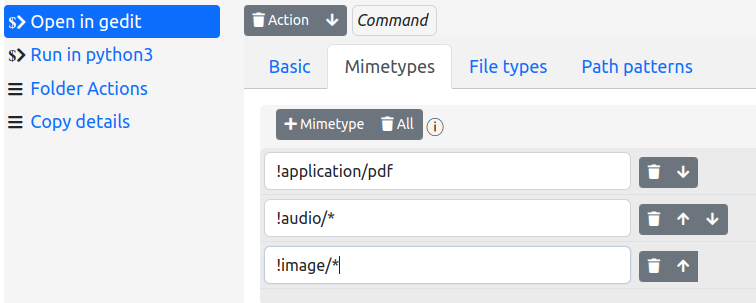
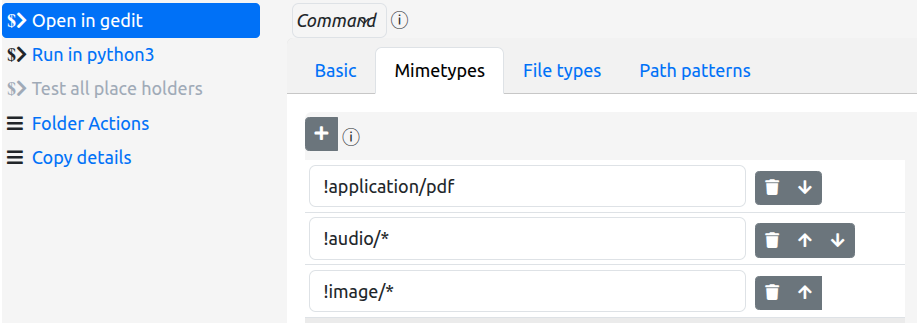
Partial doc updates

diff --git a/configurator/actions-for-nautilus-configurator-help.html b/configurator/actions-for-nautilus-configurator-help.html
@@ -18,10 +18,10 @@
 			confusion) based upon the characteristics of the files and directories that you have
 			selected in the Nautilus window (simply called <em>files</em> from here-on).</p>
 		<p>Within the context of the extension, these menu items are called <em>actions</em>.</p>
-		<p>You can add two types of actions.</p>
+		<p>You can add two types of action:</p>
 		<ul>
 			<li>Commands - a command action allows you to execute an arbitrary command, passing
-				the selected files to the command as arguments.</li>
+				information pertaining to the the selected files to the command as arguments.</li>
 			<li>Menus - a menu action contains other actions, allowing you to structure your
 				configured commands into logical groups in any way you see fit.</li>
 		</ul>
@@ -86,7 +86,7 @@
 				<ul>
 					<li>see the actions already added to the main context menu, </li>
 					<li>easily identify any actions that have been disabled, </li>
-					<li>add new actions to that menu</li>
+					<li>add, copy, paste, reorder, and delete actions within that menu</li>
 					<li>select an existing action in order to edit its characteristics</li>
 					<li>remove all actions from the main menu (which, at the top level, removes all actions from the
 						entire configuration)</li>
@@ -107,18 +107,18 @@
 					<li>set the submenu items for a menu action</li>
 					<li>set the command string, current working directory, and filter rules that pertain to a command
 						action</li>
-					<li>reorder the action within its containing menu</li>
-					<li>delete the action</li>
 				</ul>
 			</li>
 		</ul>
 		<p>Of special note is the <strong>Submenu Actions</strong> tab for menu actions ... this presents the identical
-			UI
-			elements in a nested format - i.e. the creation and manipulation of submenu actions is exactly
+			UI elements in a nested format: </p>
+			<p><img src="images/submenu-details.png" alt="Submenu details panel"></p>
+			<p>i.e. the creation and manipulation of submenu actions is exactly
 			the same as for main menu actions, performed within the UI presented by the <strong>Submenu Actions</strong>
 			tab.</p>
-		<p>The instructions below are presented for main menu actions, but the same semantics apply to creating
+		<p>The documentation below is presented for main menu actions, but the same semantics apply to managing
 			actions in submenus.</p>
+
 		<h2 id="undo-redo-and-save">Undo, Redo, Save, and Help</h2>
 		<p>Under the title, you will see a row of buttons, the first three of which allow you to undo changes that
 			you have made, redo changes that you have undone, and save changes back to the configuration file:</p>
@@ -143,7 +143,7 @@
 		<h2 id="json-source-editor">The JSON Source Editor</h2>
 		<p>The configurator includes a syntax-checking JSON source editor which, unsurprisingly, is toggled using
 			the <code>JSON</code> button in the top button row. This tool is useful for making bulk changes to your
-			configuration, such as copy/pasting actions or adding examples from the <a
+			configuration, such as adding examples from the <a
 				href="https://github.com/bassmanitram/actions-for-nautilus/wiki/Configuration-Examples"
 				target="_blank">project wiki</a> into
 			your configuration.</p>
@@ -151,7 +151,7 @@
 			main configurator UI is hidden. Additionally, the top row <code>Undo</code>, <code>Redo</code>, and
 			<code>Save</code> buttons are disabled (though neither your changes nor your undo/redo history are lost).
 		</p>
-		<p>The view of the configuration that is presented is that of the internal schema, not the UI-specific schema,
+		<p>The view of the configuration that is presented in the source editor is that of the internal schema, not the UI-specific schema,
 			and so corresponds to what you would directly enter into the extension's configuration file should you manually
 			edit that file (which you are strongly advised not to do!).
 		</p>
@@ -167,7 +167,7 @@
 			click the top row <code>JSON</code> button again.</p>
 		<p>To save changes you make in the source editor (and close the editor), click on the embedded <code>Save</code>
 			button. If there are
-			any JSON syntax issues, you will not be able to save the data and the source editor will remain open. The
+			any JSON <emphasis>syntax</emphasis> issues, you will not be able to save the data and the source editor will remain open. The
 			source
 			editor itself should highlight the syntax issues.</p>
 		<p>Upon successful saving, the editor will close and the changes will be propagated to the main configurator
@@ -177,6 +177,8 @@
 			updates the main configurator UI with the modified configuration.</p>
 		<p>If, after saving, you need to reverse the changes that you made in the source editor, simply click the
 			top row <code>Undo</code> button</p>
+
+
 		<h1 id="actions">Actions</h1>
 		<p>Actions are what you configure to appear in the Gnome Files context menu. They can be <a href="#menu-actions">menus</a> or
 		<a href="#command-actions">commands</a>. Obviouisly menus contain commands - and other menus, though it is probably
@@ -194,36 +196,36 @@
 				<p>To help quickly identify disabled items, they appear on the left of the UI in grey rather than blue.</p>
 			</li>
 			<li>
-				<p>They can be added to, moved within, copied within, and deleted from their containing menus.</p>
-				<p id="menu-toolbar">At the top of the menu item list , there is a toolbar.</p>
+				<p id="menu-toolbar">They are affected by the buttons in the toolbar found at the top of the actions list in the left column of the UI:</p>
 				<p><img src="images/menu-toolbar.png" alt="Menu toolbar"></p>
 				<ul>
-					<li><p>The <code>+ Action</code> button adds an action to the menu</p></li>
-					<li><p>The paste button pastes an action from the internal clipboard into the menu (it will not be visible if there is no action in the clipboard)</p></li>
-					<li><p>The "bin all" button deletes all actions from the menu (after asking for confirmation, of course)</p></li>
+					<li><p><img src="images/add-button.png" alt="Add button">: adds an action to the menu.</p></li>
+					<li><p><img src="images/copy-button.png" alt="Copy button">: duplicates the currently selected action, adding <code> Copy</code> to the copy's label.</p></li>
+					<li><p><img src="images/paste-button.png" alt="Paste button">: pastes the action that is currently in the internal clipboard, below the currently selected action.
+						Note that the button is disabled if there is nothing in the clipboard, and that pasting will clear the clipboard.</p></li>
+					<li><p><img src="images/up-down-buttons.png" alt="Reorder buttons">: moves the currently selected action up/down within its containing menu.</p></li>
+					<li><p><img src="images/delete-button.png" alt="Delete button">: deletes the currently selected action from its containing menu, after asking for confirmation.</p></li>
 				</ul>
-				<p id="action-toolbar">At the top of the action detail pane, there is also a toolbar.</p>
-				<p><img src="images/action-toolbar.png" alt="Menu toolbar"></p>
+				<p>By holding down the <code>[CTRL]</code> key, the appearance of the toolbar changes:</p>
+				<p><img src="images/ctrl-toolbar.png" alt="Menu toolbar"></p>
 				<ul>
-					<li><p>The "bin" button removes the action from the menu (after asking for confirmation, of course)</p></li>
-					<li><p>The "copy" button (normally) adds a copy of the action to the menu, just below the copied action (and with a modified label)</p></li>
-					<li><p>The arrow buttons allow you to move the action up or down within its containing menu</p></li>
+					<li><p><img src="images/ctrl-copy-button.png" alt="CTRL-Copy button">: Copies the currently selected action to the internal clipboard. This enables all paste
+						buttons, allowing you to paste the action back into its source menu, or into any submenu that is found in your configuration.</p></li>
+					<li><p><img src="images/ctrl-delete-button.png" alt="CTRL-Delete button">: Cuts the currently selected action into the internal clipboard. This enables all paste
+						buttons, allowing you to paste the action back into its source menu, or into any submenu that is found in your configuration.</p></li>
+				</ul>
+				<p>By holding down the <code>[SHIFT]</code> key, the appearance of the delete button changes:</p>
+				<ul>
+					<li><p><img src="images/shift-delete-button.png" alt="SHIFT-Delete button">: Deletes <e>all</e> items from the menu - after asking for confirmation.</p></li>
 				</ul>
 			</li>
-			<li><p>They can be drag/dropped to different positions within their containing menus (but not between menus).</p></li>
-			<li>
-				<p>Finally, they can be Copy/Pasted or Cut/Pasted <em>between</em> menus.</p>
-				<p>Pressing the <code>[CTRL]</code> key while clicking on the copy action button or the delete action button places the action into the 
-					internal clipboard.</p>
-				<p>This will then cause the paste buttons in the menu toolbars to become visible. You can then paste the action into a menu (at which point the paste
-					buttons will again be hidden)</p>
-			</li>
+			<li><p> Actions can also be drag/dropped to different positions within their containing menus (but not between menus).</p></li>
 		</ul>
 		<h1 id="menu-actions">Menu Actions</h1>
 		<p>To create a menu action, do the following:</p>
 		<ul>
 			<li>
-				<p>click on the <code>+</code> button in the menu toolbar</p>
+				<p>click on the <img src="images/add-button.png" alt="Add button"> button in the menu toolbar</p>
 			</li>
 			<li>
 				<p>In the newly-created action details area (to the right), click on the type indicator
@@ -243,9 +245,9 @@
 		<p id="submenu-sort">You can also opt to have the extension sort the actions that will appear in this new menu
 			in alphanumeric order (the default is that the order you specify is the one that is used).</p>
 		<p>To add actions to your new menu, click on the <strong>Submenu Actions</strong> tab to reveal a nested
-			panel that is similar to the top-level UI. Here you can, again, click on the
-			<code>+</code> button to configure the actions that will appear
-			in your newly created menu.
+			panel that is similar to the top-level UI. Here you can, again, click on the submenu's own
+			<img src="images/add-button.png" alt="Add button"> button to configure the actions that will appear
+			in your newly created submenu.
 		</p>
 		<p>That is all there is to menu creation.</p>
 		<p>Note, however, that your menu will not appear in the Nautilus context menu until you add command actions to

diff --git a/configurator/actions-for-nautilus-configurator.html b/configurator/actions-for-nautilus-configurator.html
@@ -7,7 +7,7 @@
 
 	<script src="/javascript/jquery.min.js"></script>
 	<script src="/javascript/bootstrap.min.js"></script>
-	<script src="/javascript/jsoneditor.min.js"></script>
+	<script src="/javascript/jsoneditor.js"></script>
 	<script src="/javascript/ace.js"></script>
 
 	<script src="/javascript/help.js"></script>
@@ -53,7 +53,6 @@
 		 * Because this is a local UI tightly related to
 		 * backend server that it is using, unload should
 		 * stop that server :)
-		 */
 		function onUnload(event) {
 			$.ajax({
 				url: '/terminate',
@@ -62,6 +61,7 @@
 			});
 		}
 		addEventListener("beforeunload", onUnload);
+		 */
 
 		let editor;
 
